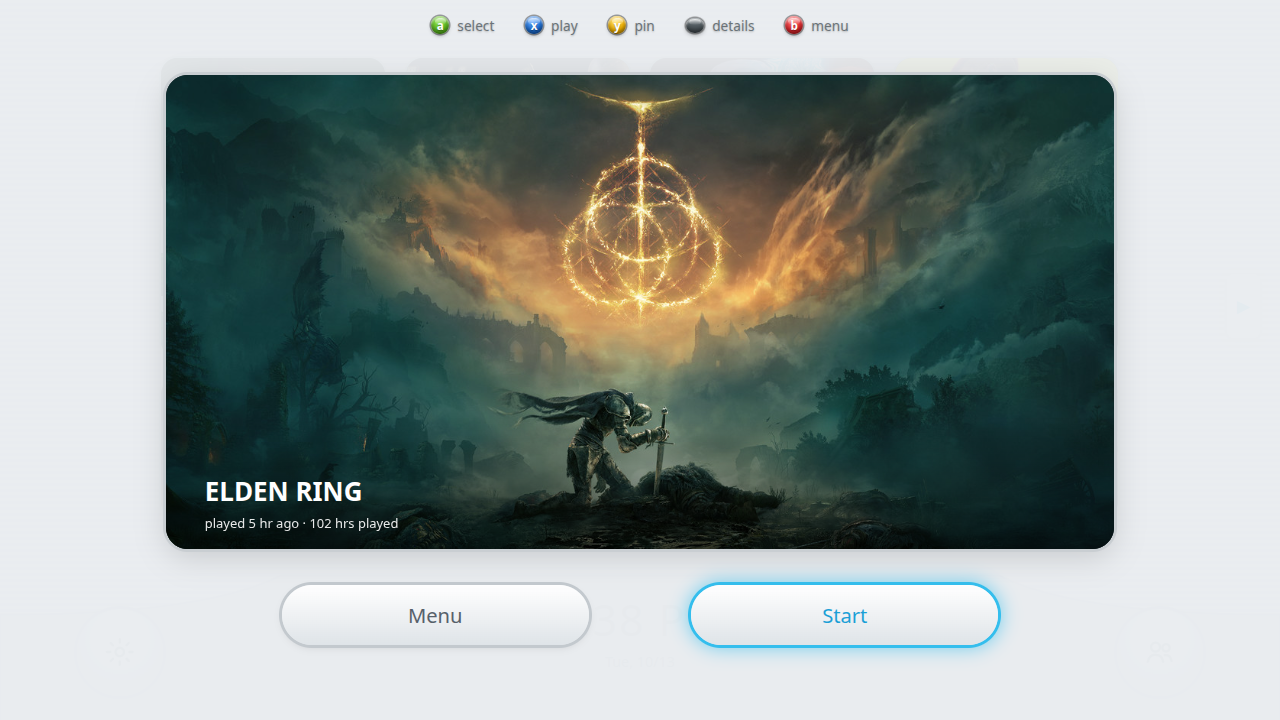
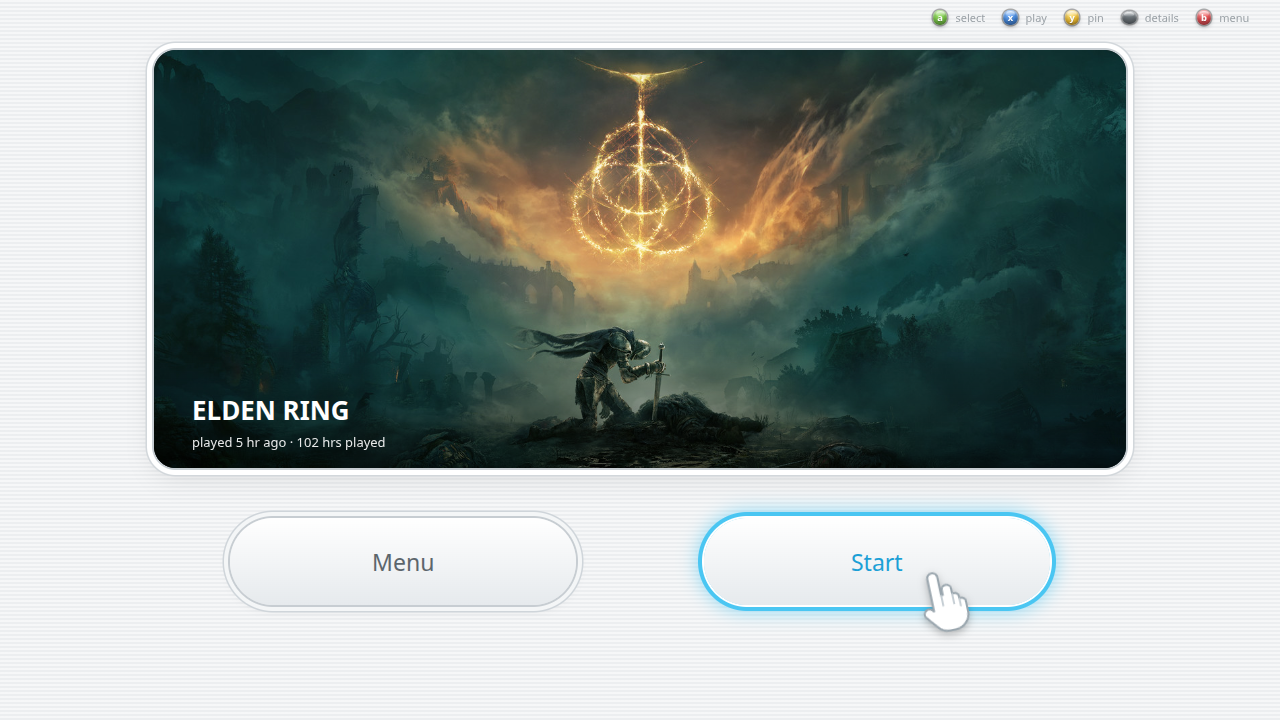
Channels: closer to the Wii menu
- A pointing hand glides to the focused channel or button.
- The bottom bar rises at both ends around the round buttons and dips in
  the middle for the clock (blinking colon, small AM/PM, 'Tue 10/13'),
  with a glowing blue edge; the right button is an envelope.
- Focus keeps the channel's size with a pulsing light-blue outline; no
  name banners over channel art; plain, slightly sunken empty slots.
- Channels zoom in when the menu or a folder opens, and the preview zooms
  out of the chosen channel; bigger icons on icon channels; blue page
  arrows; quieter hints in the corner.

diff --git a/src/renderer/looks/looks.css b/src/renderer/looks/looks.css
@@ -42,69 +42,76 @@ body[data-look="xmb"] #hints { color: #fff; text-shadow: 0 1px 3px rgba(0, 0, 0,
 .xmb-items { position: absolute; inset: 0; -webkit-mask-image: linear-gradient(#000 0 84%, transparent 92%); mask-image: linear-gradient(#000 0 84%, transparent 92%); }
 
 /* ---------- channels ---------- */
-body[data-look="wii"] { background: #e9ecef; }
+body[data-look="wii"] { background: #eceef0; }
 body[data-look="wii"] #top { display: none; }
-body[data-look="wii"] #hints { color: #6b7378; bottom: auto; top: 2.2vh; left: 0; right: 0; justify-content: center; }
+body[data-look="wii"] #hints { color: #8a9298; text-shadow: none; bottom: auto; top: 1.4vh; left: auto; right: 2.4vw; font-size: clamp(11px, 1.5vh, 15px); gap: 1.4vw; opacity: .85; }
 .wii { position: fixed; inset: 0; overflow: hidden; color: #50575c; font-weight: 400;
-  background: repeating-linear-gradient(180deg, #f4f6f7 0 3px, #e8ebee 3px 6px); }
-.wii-pages { position: absolute; transition: transform .45s cubic-bezier(.3, .8, .3, 1); }
-.wii-page { position: absolute; top: 0; display: grid; grid-template-columns: repeat(4, var(--cw)); grid-auto-rows: var(--ch); gap: var(--gap); }
-.wii-ch { position: relative; border-radius: calc(var(--ch) * .12); background: #fff; overflow: hidden; cursor: pointer;
-  box-shadow: 0 0 0 2px #c9ced2, 0 2px 6px rgba(0, 0, 0, .08); transition: transform .18s, box-shadow .18s; }
-.wii-ch.empty { background: repeating-linear-gradient(135deg, #f0f2f4 0 8px, #e4e8eb 8px 16px); box-shadow: 0 0 0 2px #d6dadd; cursor: default; }
+  background: repeating-linear-gradient(180deg, #f6f7f8 0 2px, #eceef0 2px 4px); }
+.wii-pages { position: absolute; transition: transform .5s cubic-bezier(.3, .8, .3, 1); }
+.wii-pages.intro .wii-page { animation: wii-in .55s cubic-bezier(.2, .9, .3, 1.05) both; }
+@keyframes wii-in { from { transform: scale(.82); opacity: 0; } to { transform: none; opacity: 1; } }
+.wii-page { position: absolute; top: 0; display: grid; grid-template-columns: repeat(4, var(--cw)); grid-auto-rows: var(--ch); gap: var(--gap); transform-origin: 50% 45%; }
+.wii-ch { position: relative; border-radius: calc(var(--ch) * .14); background: #fff; overflow: hidden; cursor: pointer;
+  box-shadow: 0 0 0 1.5px #c7cdd2, 0 0 0 4px #fff, 0 0 0 5px #d7dce0, 0 2px 5px 4px rgba(0, 0, 0, .05); }
+.wii-ch.empty { background: linear-gradient(#e6e9ec, #dde1e4); box-shadow: inset 0 2px 4px rgba(0, 0, 0, .09), 0 0 0 1.5px #d2d7db, 0 0 0 4px #f4f5f6, 0 0 0 5px #dde1e4; cursor: default; }
 .wii-ch .art { position: absolute; inset: 0; }
 .wii-ch .art .blur { display: none; }
 .wii-ch .art .fg { width: 100%; height: 100%; object-fit: cover; display: block; }
-.wii-ch .art.noart { display: grid; place-items: center; text-align: center; padding: 8px; font-weight: 600; color: #6b7378; background: linear-gradient(#fff, #e9edf0); }
-.wii-ch .art-icon { display: grid; place-items: center; align-content: center; gap: 6px; color: #3aa7d8; background: linear-gradient(#fff, #e6eef3); }
-.wii-ch .art-icon .ico { width: 34%; height: 34%; stroke-width: 1.5; }
-.wii-ch .art-icon.folder b { font-size: clamp(12px, 2vh, 20px); color: #56606a; font-weight: 600; text-transform: capitalize; }
-.wii-ch .art-pic { display: grid; place-items: center; background: linear-gradient(#fff, #e9edf0); }
-.wii-ch .art-pic img { height: 80%; aspect-ratio: 1; object-fit: cover; border-radius: 10px; }
-.wii-ch .art-pic .ico { width: 40%; height: 40%; color: #9aa3a9; }
-.wii-name { position: absolute; left: 0; right: 0; bottom: 0; padding: 14% 8px 5px; font-size: clamp(10px, 1.5vh, 14px); color: #fff; opacity: 0; transition: opacity .18s;
-  white-space: nowrap; overflow: hidden; text-overflow: ellipsis; background: linear-gradient(transparent, rgba(0, 0, 0, .55)); }
-.wii-ch.on { transform: scale(1.05); box-shadow: 0 0 0 3px #34beed, 0 0 18px 4px rgba(52, 190, 237, .65); z-index: 2; }
-.wii-ch.on .wii-name { opacity: 1; }
-.wii-arrow { position: absolute; top: 38%; width: 4.5vh; height: 9vh; border: 0; border-radius: 1vh; color: #34beed; background: rgba(255, 255, 255, .8);
-  box-shadow: 0 2px 8px rgba(0, 0, 0, .12); font-size: 2.4vh; opacity: 0; transition: opacity .2s; cursor: pointer; }
-.wii-arrow.l { left: 1.6vw; } .wii-arrow.r { right: 1.6vw; }
+.wii-ch .art.noart { display: grid; place-items: center; text-align: center; padding: 8px; font-weight: 600; background: linear-gradient(#fff, #e9edf0); }
+.wii-ch .noart-name, .wii-pv-frame .noart-name { color: #5c656c; text-shadow: none; }
+.wii-ch .art-icon { display: grid; place-items: center; align-content: center; gap: 4%; color: #2fa9e0; background: linear-gradient(#fff 55%, #e8eef2); }
+.wii-ch .art-icon .ico { width: calc(var(--ch) * .34); height: calc(var(--ch) * .34); stroke-width: 1.5; }
+.wii-ch .art-icon.folder b { font-size: clamp(12px, 2vh, 20px); color: #5c656c; font-weight: 600; text-align: center; padding: 0 8px; }
+.wii-face { position: relative; width: 44%; aspect-ratio: 1; border-radius: 18%; overflow: hidden; display: grid; place-items: center; background: #dfe5ea; box-shadow: 0 0 0 2px #fff, 0 1px 4px rgba(0, 0, 0, .15); }
+.wii-face img { position: absolute; inset: 0; width: 100%; height: 100%; object-fit: cover; }
+.wii-face .ico { width: 60%; height: 60%; color: #9aa3a9; }
+/* Focus: the channel keeps its size and gets a pulsing light-blue outline. */
+.wii-ch.on { box-shadow: 0 0 0 2px #fff, 0 0 0 6px #4ac6f2, 0 0 14px 6px rgba(74, 198, 242, .55); animation: wii-glow 1.3s ease-in-out infinite; z-index: 2; }
+@keyframes wii-glow { 50% { box-shadow: 0 0 0 2px #fff, 0 0 0 6px #8fdcf8, 0 0 22px 9px rgba(74, 198, 242, .35); } }
+.wii-hand { position: absolute; left: 0; top: 0; width: 7.6vh; z-index: 30; pointer-events: none; transition: transform .22s cubic-bezier(.3, .7, .3, 1); filter: drop-shadow(0 3px 4px rgba(0, 0, 0, .25)); }
+.wii-hand svg { display: block; width: 100%; transform: rotate(-12deg); animation: wii-bob 2.4s ease-in-out infinite; }
+@keyframes wii-bob { 50% { transform: rotate(-9deg) translate(1px, -3px); } }
+.wii-arrow { position: absolute; top: 34%; width: 5vh; height: 12vh; border: 0; border-radius: 2.5vh; cursor: pointer; opacity: 0; transition: opacity .2s;
+  background: linear-gradient(#5fd0f6, #1aa6dc); box-shadow: 0 0 0 3px #fff, 0 2px 8px rgba(0, 0, 0, .18); }
+.wii-arrow i { position: absolute; left: 50%; top: 50%; width: 0; height: 0; border: 1.4vh solid transparent; }
+.wii-arrow.l { left: 1.2vw; } .wii-arrow.r { right: 1.2vw; }
+.wii-arrow.l i { border-right: 1.8vh solid #fff; border-left: 0; transform: translate(-60%, -50%); }
+.wii-arrow.r i { border-left: 1.8vh solid #fff; border-right: 0; transform: translate(-40%, -50%); }
 .wii-arrow.show { opacity: 1; }
-.wii-folder { position: absolute; top: 1.6vh; left: 4vw; font-size: clamp(16px, 2.8vh, 28px); color: #3aa7d8; text-transform: capitalize; opacity: 0; transition: opacity .2s; }
+.wii-folder { position: absolute; top: 1.2vh; left: 3vw; font-size: clamp(15px, 2.6vh, 26px); color: #2fa9e0; text-transform: capitalize; opacity: 0; transition: opacity .2s; }
 .wii-folder.show { opacity: 1; }
-.wii-bar { position: absolute; left: 0; right: 0; bottom: 0; height: 22vh; }
+.wii-bar { position: absolute; left: 0; right: 0; bottom: 0; height: 26vh; }
 .wii-curve { position: absolute; inset: 0; width: 100%; height: 100%; }
-.wii-curve path { fill: #d9dee2; stroke: #c3c9ce; stroke-width: 2; vector-effect: non-scaling-stroke; }
-.wii-time { position: absolute; left: 0; right: 0; top: 18%; display: flex; flex-direction: column; align-items: center; gap: .4vh; color: #9ba3a9; }
-.wii-time b { font-size: clamp(26px, 6vh, 60px); font-weight: 300; letter-spacing: .04em; }
-.wii-time span { font-size: clamp(12px, 2vh, 20px); color: #8a9298; }
-.wii-round { position: absolute; top: 30%; width: 12vh; height: 12vh; border-radius: 50%; border: 0; display: grid; place-items: center; color: #8a9298; cursor: pointer;
-  background: radial-gradient(circle at 50% 35%, #fff, #e1e6ea 70%); box-shadow: 0 0 0 3px #c3c9ce, 0 3px 8px rgba(0, 0, 0, .12); transition: box-shadow .18s, color .18s; }
-.wii-round .ico { width: 45%; height: 45%; }
-.wii-round.left { left: 6vw; } .wii-round.right { right: 6vw; }
-.wii-round.on { color: #34beed; box-shadow: 0 0 0 3px #34beed, 0 0 18px 4px rgba(52, 190, 237, .6); }
-.wii-preview { position: absolute; inset: 0; background: rgba(233, 236, 239, .97); opacity: 0; pointer-events: none; transition: opacity .3s; display: flex; flex-direction: column; align-items: center; justify-content: center; gap: 5vh; }
+.wii-curve .fill { fill: url(#wiibar); }
+.wii-curve .line { fill: none; stroke: #7fd3f2; stroke-width: 2.5; vector-effect: non-scaling-stroke; filter: drop-shadow(0 0 3px rgba(127, 211, 242, .8)); }
+.wii-time { position: absolute; left: 0; right: 0; top: 40%; display: flex; flex-direction: column; align-items: center; gap: .2vh; color: #8f979d; }
+.wii-time b { font-size: clamp(30px, 7.4vh, 74px); font-weight: 300; letter-spacing: .02em; line-height: 1; display: flex; align-items: baseline; }
+.wii-time .colon { animation: wii-blink 1s steps(1) infinite; padding: 0 .04em; }
+@keyframes wii-blink { 50% { opacity: .15; } }
+.wii-time .ap { font-size: .32em; margin-left: .35em; font-weight: 400; letter-spacing: .05em; }
+.wii-time .date { font-size: clamp(12px, 2.1vh, 21px); color: #8f979d; letter-spacing: .03em; }
+.wii-round { position: absolute; top: 14%; width: 14vh; height: 14vh; border-radius: 50%; border: 0; display: grid; place-items: center; color: #9aa3a9; cursor: pointer;
+  background: radial-gradient(circle at 50% 30%, #fff 0, #f2f4f6 55%, #dfe4e8 100%);
+  box-shadow: 0 0 0 2px #c7cdd2, 0 0 0 6px #f4f6f7, 0 0 0 7.5px #cfd5da, 0 4px 10px rgba(0, 0, 0, .12); transition: box-shadow .18s, color .18s; }
+.wii-round .ico { width: 44%; height: 44%; }
+.wii-mark { font-size: 5.4vh; font-weight: 700; font-style: italic; letter-spacing: -.02em; color: inherit; }
+.wii-round.left { left: 4.2vw; } .wii-round.right { right: 4.2vw; }
+.wii-round.on { color: #2fa9e0; box-shadow: 0 0 0 2px #fff, 0 0 0 6px #4ac6f2, 0 0 18px 7px rgba(74, 198, 242, .55); }
+.wii-preview { position: absolute; inset: 0; opacity: 0; pointer-events: none; transition: opacity .25s;
+  background: repeating-linear-gradient(180deg, #f6f7f8 0 2px, #eceef0 2px 4px); }
 .wii-preview.show { opacity: 1; pointer-events: auto; }
-.wii-pv-frame { position: relative; width: 74vw; aspect-ratio: 16 / 8; border-radius: 3vh; overflow: hidden; background: #fff; box-shadow: 0 0 0 3px #c9ced2, 0 8px 30px rgba(0, 0, 0, .15);
-  transform: scale(.6); transition: transform .4s cubic-bezier(.2, .9, .3, 1.1); }
-.wii-preview.show .wii-pv-frame { transform: none; }
+.wii-pv-frame { position: absolute; border-radius: 3vh; overflow: hidden; background: #fff; transform-origin: 0 0;
+  box-shadow: 0 0 0 2px #c7cdd2, 0 0 0 7px #fff, 0 0 0 8.5px #d2d7db, 0 8px 26px rgba(0, 0, 0, .12); transition: transform .42s cubic-bezier(.25, .85, .3, 1); }
 .wii-pv-frame .art { position: absolute; inset: 0; }
 .wii-pv-frame .art .blur { display: none; }
 .wii-pv-frame .art .fg { width: 100%; height: 100%; object-fit: cover; }
-.wii-pv-text { position: absolute; left: 0; right: 0; bottom: 0; padding: 8vh 3vw 2.4vh; color: #fff; background: linear-gradient(transparent, rgba(0, 0, 0, .6)); display: flex; flex-direction: column; gap: .6vh; }
+.wii-pv-text { position: absolute; left: 0; right: 0; bottom: 0; padding: 8vh 3vw 2.4vh; color: #fff; background: linear-gradient(transparent, rgba(0, 0, 0, .55)); display: flex; flex-direction: column; gap: .6vh; }
 .wii-pv-text b { font-size: clamp(18px, 3.6vh, 36px); font-weight: 600; }
 .wii-pv-text span { font-size: clamp(11px, 1.8vh, 18px); opacity: .9; }
-.wii-pv-btns { display: flex; gap: 8vw; }
-.wii-btn { min-width: 24vw; padding: 2.2vh 0; border-radius: 6vh; border: 0; font: inherit; font-size: clamp(16px, 2.8vh, 28px); color: #56606a; cursor: pointer;
-  background: linear-gradient(#fff, #dfe4e8); box-shadow: 0 0 0 3px #c3c9ce, 0 3px 8px rgba(0, 0, 0, .1); text-transform: capitalize; }
-.wii-btn.on { color: #1b9fd6; box-shadow: 0 0 0 3px #34beed, 0 0 18px 4px rgba(52, 190, 237, .6); }
-.wii-ch .noart-name, .wii-pv-frame .noart-name { color: #56606a; text-shadow: none; }
-.wii-ch .art-icon.folder b { text-align: center; padding: 0 8px; text-transform: none; }
-.wii-face { width: 46%; aspect-ratio: 1; border-radius: 18%; overflow: hidden; display: grid; place-items: center; background: #dfe5ea; box-shadow: 0 0 0 2px #fff, 0 1px 4px rgba(0, 0, 0, .15); }
-.wii-face img { width: 100%; height: 100%; object-fit: cover; }
-.wii-face .ico { width: 60%; height: 60%; color: #9aa3a9; }
-.wii-face { position: relative; } .wii-face img { position: absolute; inset: 0; }
-.wii-ch:has(.folder) .wii-name { display: none; }
+.wii-pv-btns { position: absolute; left: 0; right: 0; display: flex; justify-content: center; gap: 10vw; }
+.wii-btn { display: grid; place-items: center; width: 27vw; height: 12vh; border-radius: 6vh; border: 0; font: inherit; font-size: clamp(16px, 3.2vh, 32px); color: #5c656c; cursor: pointer;
+  background: linear-gradient(#fff, #e6eaed); box-shadow: 0 0 0 2px #c7cdd2, 0 0 0 6px #f4f6f7, 0 0 0 7.5px #cfd5da, 0 4px 10px rgba(0, 0, 0, .1); text-transform: capitalize; transition: box-shadow .18s, color .18s; }
+.wii-btn.on { color: #1b9fd6; box-shadow: 0 0 0 2px #fff, 0 0 0 6px #4ac6f2, 0 0 18px 7px rgba(74, 198, 242, .55); }
 
 /* ---------- 360 nxe ---------- */
 .nxe { position: fixed; inset: 0; overflow: hidden; color: var(--pv-on, #fff); }

diff --git a/src/renderer/looks/wii.js b/src/renderer/looks/wii.js
@@ -1,9 +1,15 @@
 // Channels: pages of rounded channel tiles (4 x 3) on a light pinstripe
-// background, a curved bottom bar with the clock and two round buttons,
-// and a channel preview screen (menu / start) before a game starts.
+// background, a pointing hand that glides to the focused channel, a bottom
+// bar that rises at both ends around two round buttons with the clock in
+// its dip, and a channel preview (menu / start) that zooms out of the
+// channel before a game starts.
 // Games, apps, streams and videos are channels; search, social, steam and
 // settings are folder channels that open their own page of channels.
-import { itemTitle, itemSub, itemArt, runClock } from './common.js';
+import { itemTitle, itemSub, itemArt } from './common.js';
+
+// An original pointing-hand cursor.
+const HAND = `<svg viewBox="0 0 64 80" aria-hidden="true"><path d="M22 6c3.3 0 6 2.7 6 6v22l2-.6V28c0-3 2.4-5.4 5.4-5.4S41 25 41 28v6.4l1.6-.3c3-.5 5.6 1.8 5.6 4.8v2.5l1.3-.2c3-.4 5.5 1.9 5.5 4.9V58c0 9.9-8.1 18-18 18h-6.6c-5.6 0-10.9-2.7-14.2-7.3L5.7 55.9c-1.8-2.5-1.3-6 1.1-7.9 2.4-1.9 5.8-1.6 7.8.7L16 50.4V12c0-3.3 2.7-6 6-6z" fill="#fff" stroke="#9aa6ae" stroke-width="2.4" stroke-linejoin="round"/><path d="M28 34v12M41 34.4v11.6M48.2 41.4V50" stroke="#c3ccd2" stroke-width="2.2" stroke-linecap="round"/></svg>`;
+const MAIL = '<svg class="ico" viewBox="0 0 24 24" fill="none" stroke="currentColor" stroke-width="1.6" stroke-linejoin="round"><rect x="3" y="5.5" width="18" height="13" rx="2"/><path d="m3.5 7 8.5 6.5L20.5 7"/></svg>';
 
 const COLS = 4;
 const ROWS = 3;
@@ -21,20 +27,37 @@ export default function createWii(ctx, root) {
   root.innerHTML = '';
   const box = el('div', 'wii');
   const pages = el('div', 'wii-pages');
-  const arrowL = el('button', 'wii-arrow l', '&#9664;');
-  const arrowR = el('button', 'wii-arrow r', '&#9654;');
+  const arrowL = el('button', 'wii-arrow l', '<i></i>');
+  const arrowR = el('button', 'wii-arrow r', '<i></i>');
+  // The bar is high at both ends (where the round buttons sit) and dips in
+  // the middle, where the clock is.
+  const edge = 'M0 26 L150 26 C 205 26 215 92 290 92 L 710 92 C 785 92 795 26 850 26 L1000 26';
   const bar = el('div', 'wii-bar', `
-    <svg class="wii-curve" viewBox="0 0 1000 120" preserveAspectRatio="none"><path d="M0 40 Q 160 40 220 10 L 780 10 Q 840 40 1000 40 L 1000 120 L 0 120 Z"/></svg>
-    <button class="wii-round left">${icon('gear')}</button>
-    <div class="wii-time"><b></b><span></span></div>
-    <button class="wii-round right">${icon('friends')}</button>`);
+    <svg class="wii-curve" viewBox="0 0 1000 240" preserveAspectRatio="none">
+      <defs><linearGradient id="wiibar" x1="0" x2="0" y1="0" y2="1"><stop offset="0" stop-color="#f7f8f9"/><stop offset=".35" stop-color="#e3e7ea"/><stop offset="1" stop-color="#d3d9dd"/></linearGradient></defs>
+      <path class="fill" d="${edge} L1000 240 L0 240 Z"/>
+      <path class="line" d="${edge}"/>
+    </svg>
+    <button class="wii-round left"><b class="wii-mark">N</b></button>
+    <div class="wii-time"><b><span class="h"></span><span class="colon">:</span><span class="m"></span><small class="ap"></small></b><span class="date"></span></div>
+    <button class="wii-round right">${MAIL}</button>`);
   const pv = el('div', 'wii-preview');
   const title = el('div', 'wii-folder');
-  box.append(pages, arrowL, arrowR, title, bar, pv);
+  const hand = el('div', 'wii-hand', HAND);
+  box.append(pages, arrowL, arrowR, title, bar, pv, hand);
   root.append(box);
-  const stopClock = runClock(bar.querySelector('.wii-time b'));
-  const dateEl = bar.querySelector('.wii-time span');
-  dateEl.textContent = new Date().toLocaleDateString([], { weekday: 'short', month: 'numeric', day: 'numeric' });
+  const tick = () => {
+    const d = new Date();
+    const h = d.getHours();
+    bar.querySelector('.h').textContent = String(h % 12 || 12);
+    bar.querySelector('.m').textContent = String(d.getMinutes()).padStart(2, '0');
+    bar.querySelector('.ap').textContent = h < 12 ? 'AM' : 'PM';
+    bar.querySelector('.date').textContent = d.toLocaleDateString([], { weekday: 'short', month: 'numeric', day: 'numeric' }).replace(',', '');
+  };
+  tick();
+  const clockId = setInterval(tick, 10000);
+  const stopClock = () => clearInterval(clockId);
+  let intro = true;
   arrowL.addEventListener('click', () => page(-1));
   arrowR.addEventListener('click', () => page(1));
   bar.querySelector('.left').addEventListener('click', () => { i = -1; layout(); press(); });
@@ -86,7 +109,6 @@ export default function createWii(ctx, root) {
             c.append(face);
           }
           else c.append(itemArt(ctx, t, ['header', 'portrait']));
-          c.append(el('div', 'wii-name', esc(itemTitle(t))));
           c.addEventListener('click', () => { if (k === i) press(); else { i = k; sound.play('move'); layout(); } });
         }
         pg.append(c);
@@ -95,7 +117,39 @@ export default function createWii(ctx, root) {
     }
     title.textContent = folder ? folder.title : '';
     title.classList.toggle('show', !!folder);
+    // Channels zoom in when the menu first appears or a folder opens.
+    pages.classList.remove('intro');
+    void pages.offsetWidth;
+    pages.classList.add('intro');
+    intro = false;
     layout();
+  }
+
+  // Geometry of channel k on the screen (without the page slide).
+  function chRect(k) {
+    const g = grid;
+    const s = k % PER;
+    return { x: g.left + (s % COLS) * (g.cw + g.gap), y: g.top + Math.floor(s / COLS) * (g.ch + g.gap), w: g.cw, h: g.ch };
+  }
+  let grid = { left: 0, top: 0, cw: 0, ch: 0, gap: 0 };
+
+  // The hand points at the focused channel, button or preview button.
+  function placeHand() {
+    let x;
+    let y;
+    if (preview) {
+      const b = pv.querySelector(preview.btn === 0 ? '.menu' : '.start');
+      const r = b && b.getBoundingClientRect();
+      if (!r || !r.width) { requestAnimationFrame(placeHand); return; }
+      x = r.left + r.width * 0.62; y = r.top + r.height * 0.55;
+    } else if (i < 0) {
+      const r = bar.querySelector(i === -1 ? '.left' : '.right').getBoundingClientRect();
+      x = r.left + r.width * 0.6; y = r.top + r.height * 0.55;
+    } else {
+      const r = chRect(i);
+      x = r.x + r.w * 0.66; y = r.y + r.h * 0.58;
+    }
+    hand.style.transform = `translate(${x}px, ${y}px)`;
   }
 
   function layout() {
@@ -105,13 +159,14 @@ export default function createWii(ctx, root) {
     const cw = Math.min((W * 0.84 - gap * (COLS - 1)) / COLS, ((H * 0.64 - gap * (ROWS - 1)) / ROWS) * 1.6);
     const ch = cw / 1.6;
     const gridW = cw * COLS + gap * (COLS - 1);
+    grid = { left: (W - gridW) / 2, top: H * 0.07, cw, ch, gap };
     box.style.setProperty('--cw', cw + 'px');
     box.style.setProperty('--ch', ch + 'px');
     box.style.setProperty('--gap', gap + 'px');
     const pageNow = i >= 0 ? Math.floor(i / PER) : (pages.dataset.page | 0);
     pages.dataset.page = pageNow;
     pages.style.left = (W - gridW) / 2 + 'px';
-    pages.style.top = H * 0.08 + 'px';
+    pages.style.top = H * 0.07 + 'px';
     pages.style.transform = `translateX(${-pageNow * (gridW + W * 0.2)}px)`;
     [...pages.children].forEach((pg, p) => { pg.style.left = p * (gridW + W * 0.2) + 'px'; });
     const all = pages.querySelectorAll('.wii-ch');
@@ -121,6 +176,7 @@ export default function createWii(ctx, root) {
     arrowR.classList.toggle('show', pageNow < n - 1);
     bar.querySelector('.left').classList.toggle('on', i === -1);
     bar.querySelector('.right').classList.toggle('on', i === -2);
+    placeHand();
     ctx.hints();
   }
 
@@ -183,7 +239,19 @@ export default function createWii(ctx, root) {
     btns.querySelector('.menu').addEventListener('click', () => closePreview());
     btns.querySelector('.start').addEventListener('click', () => { const tile = preview.tile; sound.play('select'); ctx.play(tile); setTimeout(() => closePreview(true), 500); });
     pv.append(frame, btns);
+    // Zoom out of the channel: start the frame at the channel's place.
+    const W = innerWidth;
+    const H = innerHeight;
+    const fw = W * 0.76;
+    const fh = Math.min(fw / 2, H * 0.58);
+    const fx = (W - fw) / 2;
+    const fy = H * 0.07;
+    Object.assign(frame.style, { left: fx + 'px', top: fy + 'px', width: fw + 'px', height: fh + 'px' });
+    const r = chRect(i);
+    frame.style.transform = `translate(${r.x - fx}px, ${r.y - fy}px) scale(${r.w / fw}, ${r.h / fh})`;
+    btns.style.top = fy + fh + H * 0.07 + 'px';
     pv.classList.add('show');
+    requestAnimationFrame(() => requestAnimationFrame(() => { frame.style.transform = 'none'; }));
     sound.play('open');
     previewLayout();
   }
